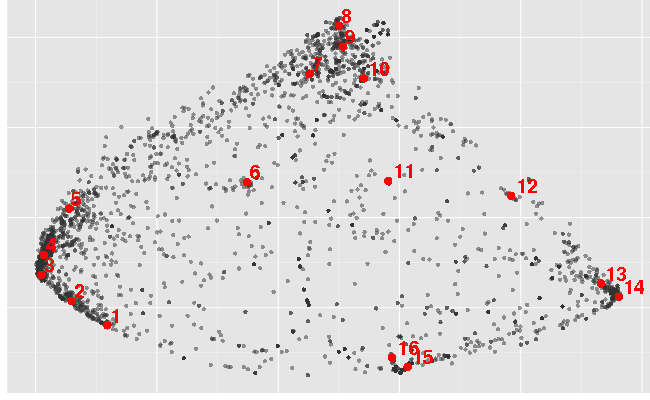
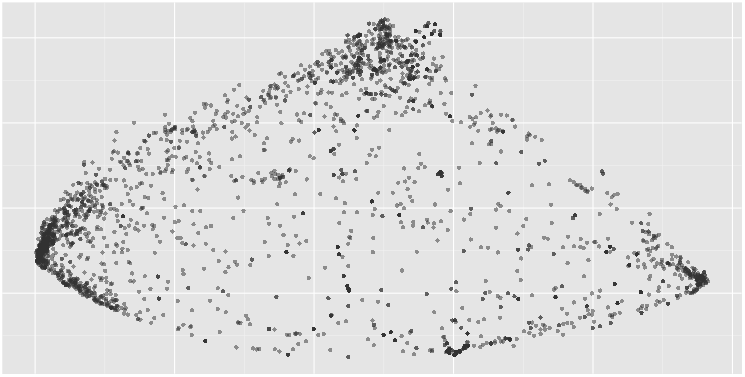
embedding images from screenshots

diff --git a/index.html b/index.html
@@ -145,15 +145,14 @@
 				<section>
 					<h2>MDS</h2>
 					<p><a href="https://en.wikipedia.org/wiki/Multidimensional_scaling">wikipedia.org/wiki/Multidimensional_scaling</a></p>
-					<!-- TODO remove red dots -->
-					<img class="stretch" src="img/mds-embeddings.png"/></td>
+					<p>function <a href="http://www.inside-r.org/r-doc/stats/cmdscale">cmdscale</a></p>
+					<p>$ 1 - |corr(a, b)| $ used as distance between time series</p>
+					<p>there are many ways to do it (isoMDS, TSdist, ...)</p>
 				</section>
 
 				<section>
 					<h2>MDS</h2>
-					<p>function <a href="http://www.inside-r.org/r-doc/stats/cmdscale">cmdscale</a></p>
-					<p>$ 1 - |corr(a, b)| $ used as distance between time series</p>
-					<p>there are many ways to do it (isoMDS, TSdist, ...)</p>
+					<img class="stretch" src="img/mds-embeddings.png"/></td>
 				</section>
 
 				<section>
